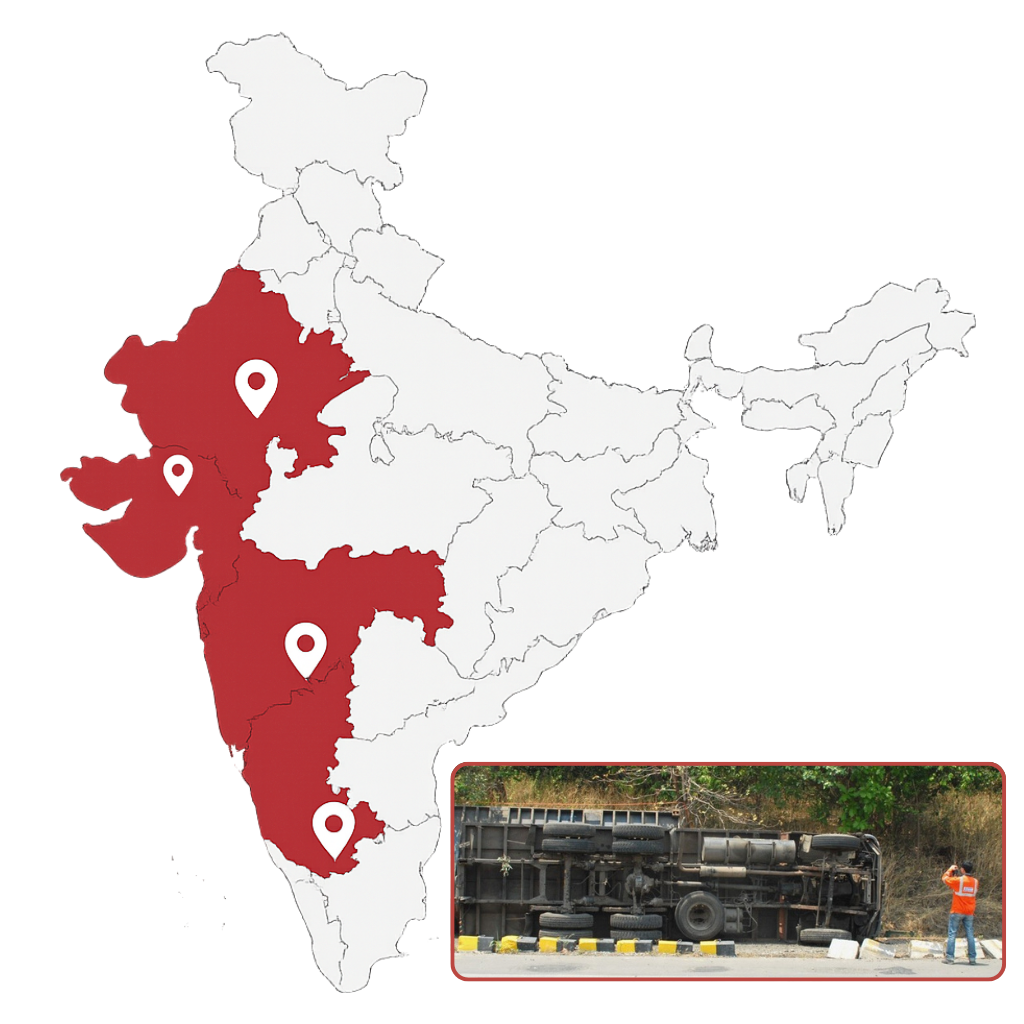
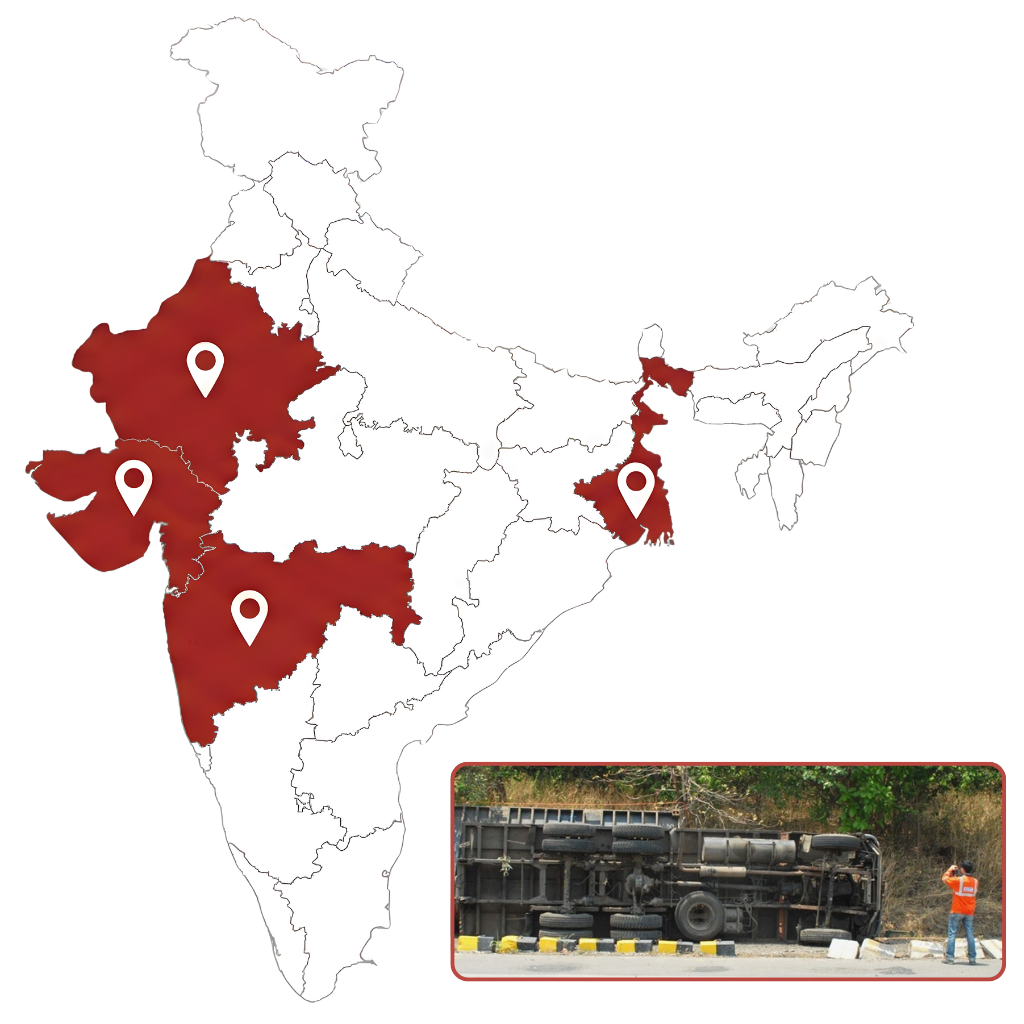
about changes

diff --git a/jpr-frontend/src/components/about/AboutHero.jsx b/jpr-frontend/src/components/about/AboutHero.jsx
@@ -1,5 +1,5 @@
 import { ArrowDown, ArrowRight } from "lucide-react";
-import heroGraphic from "../../assets/images/about/about-hero-graphic.jpg"; // your illustration
+import heroGraphic from "../../assets/images/about/about-hero-graphic.jfif"; // your illustration
 import { ChevronDown } from "lucide-react";
 
 export default function AboutHero() {
@@ -67,61 +67,56 @@ export default function AboutHero() {
           </div>
         </div>
 
-        {/* RIGHT: Illustration / data visual (more compact) */}
-        <div className="hidden md:flex w-1/2 justify-end">
-          <div className="relative w-full max-w-md group">
-            {/* Soft glow + gradient ring behind card */}
-            <div className="absolute -inset-6 rounded-[2rem] bg-gradient-to-br from-primary to-secondary blur-2xl opacity-80" />
+{/* RIGHT: Compact + Slightly Bigger */}
+<div className="hidden md:flex w-1/2 justify-end">
+  <div className="relative w-full max-w-md group">
 
-            <div className="relative overflow-hidden rounded-[1.75rem] border border-white/15 bg-gradient-to-br from-white/10 via-white/5 to-black/30 shadow-2xl backdrop-blur-xl p-4 sm:p-5 lg:p-6">
-              {/* Main graphic with subtle motion */}
-              <div className="relative aspect-[3/2] overflow-hidden rounded-2xl">
-                <div className="absolute inset-0 bg-gradient-to-tr from-black/10 via-transparent to-white/10 mix-blend-overlay pointer-events-none" />
-                <img
-                  src={heroGraphic}
-                  alt="Crash data visualisation"
-                  className="h-full w-full object-cover rounded-2xl transform transition-transform duration-500 ease-out group-hover:scale-[1.03]"
-                />
-              </div>
+    {/* Soft glow ring */}
+    <div className="absolute -inset-5 rounded-[2rem] bg-gradient-to-br from-primary/70 to-secondary/70 blur-2xl opacity-80" />
 
-              {/* Stat cards */}
-              <div className="mt-4 grid grid-cols-2 gap-3 text-xs">
-                <div className="rounded-2xl bg-white/20 px-3 py-2 shadow-md shadow-black/40">
-                  <p className="text-[11px] tracking-[0.16em] text-white/55">
-                    In-depth crashes
-                  </p>
-                  <p className="mt-1 text-md font-semibold sm:text-lg text-white">
-                      9000+
-                    </p>
-                  </div>
-                  <div className="rounded-2xl bg-white/20 px-3 py-2 shadow-md shadow-black/40">
-                  <p className="text-[11px] tracking-[0.16em] text-white/55">
-                    Years of data
-                  </p>
-                  <p className="mt-1 text-md font-semibold sm:text-lg text-white">
-                    15+
-                  </p>
-                </div>
-                  <div className="rounded-2xl bg-white/20 px-3 py-2 shadow-md shadow-black/40">
-                  <p className="text-[11px] tracking-[0.16em] text-white/55">
-                    States & cities
-                  </p>
-                  <p className="mt-1 text-base font-semibold sm:text-md text-white">
-                    Multi-state
-                  </p>
-                </div>
-                  <div className="rounded-2xl bg-white/20 px-3 py-2 shadow-md shadow-black/40">
-                  <p className="text-[11px] tracking-[0.16em] text-white/55">
-                    Partner organizations
-                  </p>
-                  <p className="mt-1 text-base font-semibold sm:text-md text-white">
-                    20+ OEMs
-                  </p>
-                </div>
-              </div>
-            </div>
-          </div>
+    <div className="relative overflow-hidden rounded-[1.75rem] border border-white/12 bg-gradient-to-br from-white/10 to-black/30 shadow-2xl backdrop-blur-xl p-5">
+
+      {/* Graphic */}
+      <div className="relative aspect-[16/10] overflow-hidden rounded-2xl">
+        <div className="absolute inset-0 bg-gradient-to-tr from-black/15 via-transparent to-white/10 mix-blend-overlay pointer-events-none" />
+        <img
+          src={heroGraphic}
+          alt="Crash data visualization"
+          className="h-full w-full object-cover rounded-2xl transition-transform duration-500 ease-out group-hover:scale-[1.03]"
+        />
+      </div>
+
+      {/* Stats */}
+      <div className="mt-4 grid grid-cols-2 gap-3 text-[12px] leading-tight">
+
+        <div className="rounded-xl bg-white/15 px-3 py-2 shadow">
+          <p className="tracking-wide text-white/55 text-[11px]">In-depth crashes studied</p>
+          <p className="mt-1 text-base font-semibold text-white">9000+</p>
         </div>
+
+        <div className="rounded-xl bg-white/15 px-3 py-2 shadow">
+          <p className="tracking-wide text-white/55 text-[11px]">Research covering</p>
+          <p className="mt-1 text-base font-semibold text-white">~20 years</p>
+        </div>
+
+        <div className="rounded-xl bg-white/15 px-3 py-2 shadow">
+          <p className="tracking-wide text-white/55 text-[11px]">Presence</p>
+          <p className="mt-1 text-base font-semibold text-white">Pan India</p>
+        </div>
+
+        <div className="rounded-xl bg-white/15 px-3 py-2 shadow">
+          <p className="tracking-wide text-white/55 text-[11px]">Partner Organizations</p>
+          <p className="mt-1 text-[11px] font-medium text-white">
+            Government, Automotive OEMs, Insurance, Road Infrastructure agencies
+          </p>
+        </div>
+
+      </div>
+    </div>
+  </div>
+</div>
+
+
       </div>
 
     {/* Modern Scroll Cue */}
@@ -135,7 +130,7 @@ export default function AboutHero() {
       window.scrollTo({ top: window.innerHeight, behavior: "smooth" });
     }
   }}
-  className="absolute bottom-6 left-1/2 -translate-x-1/2 z-40 flex flex-col items-center gap-1 text-[11px] tracking-wide text-white hover:text-white transition"
+  className="absolute bottom-10 left-1/2 -translate-x-1/2 z-40 flex flex-col items-center gap-1 text-[11px] tracking-wide text-white hover:text-white transition"
 >
   {/* move arrow up a bit, text stays */}
   <ChevronDown className="h-10 w-10 animate-bounce relative text-white/80" />
